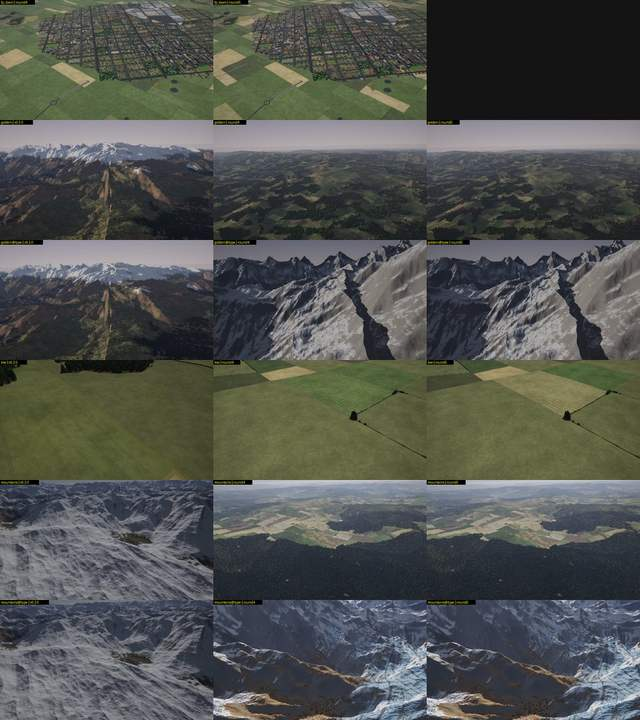
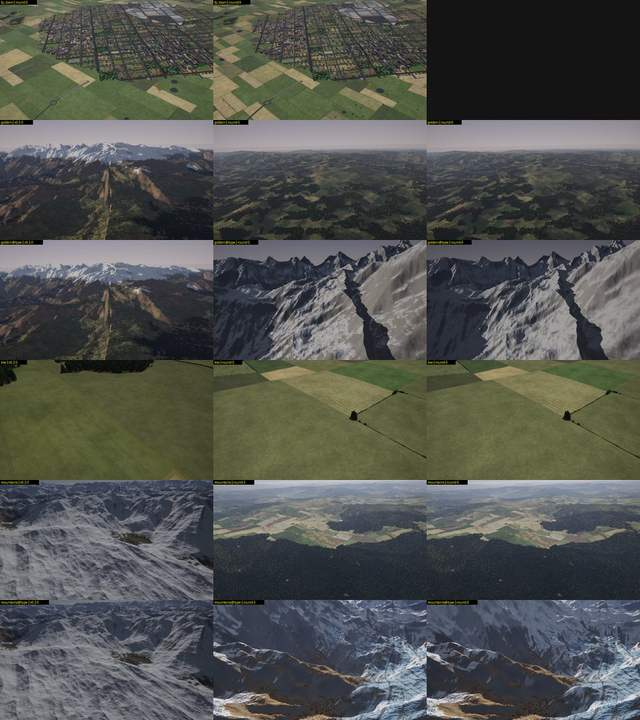
docs/next, CHANGELOG: round-6 look changes and A/B sheets (v0.2.0 | round 5 | round 6), like-for-like town/tropics/boreal/alpine @type places, stats

diff --git a/docs/next/ab/next_quality/stats.md b/docs/next/ab/next_quality/stats.md
@@ -1,126 +1,126 @@
 | scene | run | saturation | hf energy | flat blocks | edge contrast |
 |---|---|---|---|---|---|
 | alpine_south | v0.2.0 | 0.195 | 6.80 | 0.530 | 36.1 |
-| alpine_south | round4 | 0.206 | 18.88 | 0.001 | 13.6 |
-| alpine_south | round5 | 0.208 | 18.74 | 0.001 | 13.6 |
+| alpine_south | round 5 | 0.208 | 18.74 | 0.001 | 13.6 |
+| alpine_south | round 6 | 0.208 | 17.75 | 0.001 | 12.9 |
 | alpine_south@type | v0.2.0 | 0.195 | 6.80 | 0.530 | 36.1 |
-| alpine_south@type | round4 | 0.111 | 11.61 | 0.029 | 9.2 |
-| alpine_south@type | round5 | 0.111 | 11.61 | 0.029 | 9.2 |
+| alpine_south@type | round 5 | 0.055 | 14.06 | 0.018 | 8.1 |
+| alpine_south@type | round 6 | 0.053 | 11.89 | 0.007 | 8.8 |
 | alpine_valley | v0.2.0 | 0.020 | 3.23 | 0.175 | 7.9 |
-| alpine_valley | round4 | 0.284 | 15.96 | 0.003 | 19.4 |
-| alpine_valley | round5 | 0.281 | 15.13 | 0.005 | 19.2 |
+| alpine_valley | round 5 | 0.281 | 15.13 | 0.005 | 19.2 |
+| alpine_valley | round 6 | 0.281 | 15.13 | 0.004 | 19.2 |
 | alpine_valley@type | v0.2.0 | 0.020 | 3.23 | 0.175 | 7.9 |
-| alpine_valley@type | round4 | 0.169 | 29.52 | 0.003 | 6.4 |
-| alpine_valley@type | round5 | 0.169 | 29.52 | 0.003 | 6.4 |
+| alpine_valley@type | round 5 | 0.040 | 9.96 | 0.005 | 6.1 |
+| alpine_valley@type | round 6 | 0.042 | 7.48 | 0.003 | 5.1 |
 | bank | v0.2.0 | 0.244 | 9.45 | 0.337 | 25.9 |
-| bank | round4 | 0.328 | 2.81 | 0.830 | 2.9 |
-| bank | round5 | 0.328 | 2.81 | 0.830 | 2.9 |
+| bank | round 5 | 0.328 | 2.81 | 0.830 | 2.9 |
+| bank | round 6 | 0.328 | 2.81 | 0.830 | 2.9 |
 | bank@type | v0.2.0 | 0.244 | 9.45 | 0.337 | 25.9 |
-| bank@type | round4 | 0.299 | 5.75 | 0.574 | 19.8 |
-| bank@type | round5 | 0.300 | 5.98 | 0.573 | 19.8 |
+| bank@type | round 5 | 0.300 | 5.98 | 0.573 | 19.8 |
+| bank@type | round 6 | 0.299 | 6.17 | 0.571 | 19.5 |
 | boreal | v0.2.0 | 0.129 | 17.89 | 0.000 | 5.0 |
-| boreal | round4 | 0.224 | 30.07 | 0.005 | 7.3 |
-| boreal | round5 | 0.224 | 30.08 | 0.005 | 7.3 |
+| boreal | round 5 | 0.224 | 30.08 | 0.005 | 7.3 |
+| boreal | round 6 | 0.224 | 30.06 | 0.005 | 7.3 |
 | boreal@type | v0.2.0 | 0.129 | 17.89 | 0.000 | 5.0 |
-| boreal@type | round4 | 0.231 | 23.51 | 0.000 | 8.5 |
-| boreal@type | round5 | 0.231 | 23.51 | 0.000 | 8.5 |
+| boreal@type | round 5 | 0.186 | 19.83 | 0.006 | 19.7 |
+| boreal@type | round 6 | 0.186 | 19.83 | 0.006 | 19.7 |
 | braided | v0.2.0 | 0.212 | 32.29 | 0.122 | 6.7 |
-| braided | round4 | 0.129 | 11.40 | 0.030 | 6.9 |
-| braided | round5 | 0.128 | 11.37 | 0.048 | 6.9 |
+| braided | round 5 | 0.128 | 11.37 | 0.048 | 6.9 |
+| braided | round 6 | 0.129 | 9.98 | 0.048 | 5.9 |
 | canyon | v0.2.0 | 0.479 | 6.53 | 0.001 | 4.4 |
-| canyon | round4 | 0.289 | 50.35 | 0.001 | 5.4 |
-| canyon | round5 | 0.289 | 50.35 | 0.001 | 5.4 |
+| canyon | round 5 | 0.289 | 50.35 | 0.001 | 5.4 |
+| canyon | round 6 | 0.289 | 50.35 | 0.001 | 5.4 |
 | canyon@type | v0.2.0 | 0.479 | 6.53 | 0.001 | 4.4 |
-| canyon@type | round4 | 0.340 | 6.90 | 0.211 | 18.1 |
-| canyon@type | round5 | 0.351 | 5.80 | 0.260 | 18.1 |
+| canyon@type | round 5 | 0.351 | 5.80 | 0.260 | 18.1 |
+| canyon@type | round 6 | 0.351 | 5.80 | 0.260 | 18.1 |
 | coast | v0.2.0 | 0.298 | 8.90 | 0.270 | 24.5 |
-| coast | round4 | 0.433 | 2.88 | 0.932 | 2.8 |
-| coast | round5 | 0.433 | 2.88 | 0.932 | 2.8 |
+| coast | round 5 | 0.433 | 2.88 | 0.932 | 2.8 |
+| coast | round 6 | 0.433 | 2.88 | 0.932 | 2.8 |
 | coast@type | v0.2.0 | 0.298 | 8.90 | 0.270 | 24.5 |
-| coast@type | round4 | 0.315 | 10.39 | 0.466 | 38.3 |
-| coast@type | round5 | 0.313 | 10.43 | 0.468 | 38.2 |
+| coast@type | round 5 | 0.313 | 10.43 | 0.468 | 38.2 |
+| coast@type | round 6 | 0.311 | 10.74 | 0.469 | 38.4 |
 | desert_coast | v0.2.0 | 0.404 | 3.10 | 0.370 | 16.3 |
-| desert_coast | round4 | 0.284 | 4.10 | 0.489 | 7.2 |
-| desert_coast | round5 | 0.284 | 4.10 | 0.489 | 7.2 |
+| desert_coast | round 5 | 0.284 | 4.10 | 0.489 | 7.2 |
+| desert_coast | round 6 | 0.284 | 4.10 | 0.489 | 7.2 |
 | desert_coast@type | v0.2.0 | 0.404 | 3.10 | 0.370 | 16.3 |
-| desert_coast@type | round4 | 0.263 | 9.52 | 0.020 | 7.7 |
-| desert_coast@type | round5 | 0.291 | 8.79 | 0.017 | 6.4 |
+| desert_coast@type | round 5 | 0.291 | 8.79 | 0.017 | 6.4 |
+| desert_coast@type | round 6 | 0.310 | 5.95 | 0.025 | 7.1 |
 | dunes | v0.2.0 | 0.340 | 8.41 | 0.039 | 6.5 |
-| dunes | round4 | 0.189 | 34.28 | 0.002 | 4.6 |
-| dunes | round5 | 0.189 | 34.28 | 0.002 | 4.6 |
+| dunes | round 5 | 0.189 | 34.28 | 0.002 | 4.6 |
+| dunes | round 6 | 0.189 | 34.28 | 0.002 | 4.6 |
 | dunes@type | v0.2.0 | 0.340 | 8.41 | 0.039 | 6.5 |
-| dunes@type | round4 | 0.389 | 7.37 | 0.000 | 4.2 |
-| dunes@type | round5 | 0.389 | 7.37 | 0.000 | 4.2 |
+| dunes@type | round 5 | 0.389 | 7.37 | 0.000 | 4.2 |
+| dunes@type | round 6 | 0.389 | 7.37 | 0.000 | 4.2 |
 | dusk | v0.2.0 | 0.169 | 5.19 | 0.044 | 5.1 |
-| dusk | round4 | 0.131 | 4.10 | 0.399 | 7.7 |
-| dusk | round5 | 0.131 | 4.10 | 0.399 | 7.7 |
+| dusk | round 5 | 0.131 | 4.10 | 0.399 | 7.7 |
+| dusk | round 6 | 0.131 | 4.10 | 0.399 | 7.7 |
 | dusk@type | v0.2.0 | 0.169 | 5.19 | 0.044 | 5.1 |
-| dusk@type | round4 | 0.190 | 5.60 | 0.129 | 8.9 |
-| dusk@type | round5 | 0.191 | 5.59 | 0.128 | 8.9 |
+| dusk@type | round 5 | 0.191 | 5.59 | 0.128 | 8.9 |
+| dusk@type | round 6 | 0.189 | 5.58 | 0.127 | 9.2 |
 | farmland | v0.2.0 | 0.340 | 10.42 | 0.030 | 20.8 |
-| farmland | round4 | 0.306 | 9.02 | 0.031 | 21.4 |
-| farmland | round5 | 0.304 | 9.01 | 0.031 | 21.3 |
+| farmland | round 5 | 0.304 | 9.01 | 0.031 | 21.3 |
+| farmland | round 6 | 0.304 | 9.01 | 0.031 | 21.3 |
 | farmland@type | v0.2.0 | 0.340 | 10.42 | 0.030 | 20.8 |
-| farmland@type | round4 | 0.333 | 7.72 | 0.036 | 23.6 |
-| farmland@type | round5 | 0.324 | 7.36 | 0.034 | 21.3 |
+| farmland@type | round 5 | 0.324 | 7.36 | 0.034 | 21.3 |
+| farmland@type | round 6 | 0.285 | 8.21 | 0.038 | 21.0 |
 | forest | v0.2.0 | 0.202 | 17.92 | 0.002 | 4.2 |
-| forest | round4 | 0.271 | 16.25 | 0.002 | 19.8 |
-| forest | round5 | 0.270 | 16.21 | 0.004 | 19.4 |
+| forest | round 5 | 0.270 | 16.21 | 0.004 | 19.4 |
+| forest | round 6 | 0.270 | 16.21 | 0.004 | 19.4 |
 | forest@type | v0.2.0 | 0.202 | 17.92 | 0.002 | 4.2 |
-| forest@type | round4 | 0.202 | 23.96 | 0.009 | 8.8 |
-| forest@type | round5 | 0.202 | 20.73 | 0.010 | 10.2 |
-| fp_forest | round4 | 0.160 | 28.83 | 0.040 | 6.9 |
-| fp_forest | round5 | 0.160 | 28.83 | 0.040 | 6.9 |
-| fp_town | round4 | 0.288 | 13.84 | 0.023 | 17.6 |
-| fp_town | round5 | 0.281 | 14.10 | 0.018 | 16.2 |
+| forest@type | round 5 | 0.202 | 20.73 | 0.010 | 10.2 |
+| forest@type | round 6 | 0.202 | 20.68 | 0.010 | 10.2 |
+| fp_forest | round 5 | 0.160 | 28.83 | 0.040 | 6.9 |
+| fp_forest | round 6 | 0.160 | 28.83 | 0.040 | 6.9 |
+| fp_town | round 5 | 0.281 | 14.10 | 0.018 | 16.2 |
+| fp_town | round 6 | 0.285 | 14.99 | 0.009 | 13.8 |
 | golden | v0.2.0 | 0.166 | 11.29 | 0.112 | 12.4 |
-| golden | round4 | 0.166 | 16.61 | 0.019 | 9.6 |
-| golden | round5 | 0.158 | 17.10 | 0.016 | 9.4 |
+| golden | round 5 | 0.158 | 17.10 | 0.016 | 9.4 |
+| golden | round 6 | 0.158 | 17.10 | 0.016 | 9.4 |
 | golden@type | v0.2.0 | 0.166 | 11.29 | 0.112 | 12.4 |
-| golden@type | round4 | 0.141 | 13.29 | 0.064 | 16.4 |
-| golden@type | round5 | 0.141 | 13.29 | 0.064 | 16.4 |
+| golden@type | round 5 | 0.141 | 13.29 | 0.064 | 16.4 |
+| golden@type | round 6 | 0.134 | 12.10 | 0.087 | 20.7 |
 | low | v0.2.0 | 0.414 | 5.37 | 0.111 | 3.9 |
-| low | round4 | 0.361 | 4.41 | 0.007 | 5.7 |
-| low | round5 | 0.360 | 4.42 | 0.007 | 6.0 |
+| low | round 5 | 0.360 | 4.42 | 0.007 | 6.0 |
+| low | round 6 | 0.360 | 4.42 | 0.007 | 6.0 |
 | mountains | v0.2.0 | 0.098 | 14.87 | 0.035 | 4.7 |
-| mountains | round4 | 0.246 | 20.25 | 0.000 | 13.7 |
-| mountains | round5 | 0.245 | 20.24 | 0.000 | 13.8 |
+| mountains | round 5 | 0.245 | 20.24 | 0.000 | 13.8 |
+| mountains | round 6 | 0.245 | 20.24 | 0.000 | 13.8 |
 | mountains@type | v0.2.0 | 0.098 | 14.87 | 0.035 | 4.7 |
-| mountains@type | round4 | 0.212 | 21.77 | 0.200 | 20.1 |
-| mountains@type | round5 | 0.212 | 21.77 | 0.200 | 20.1 |
+| mountains@type | round 5 | 0.212 | 21.77 | 0.200 | 20.1 |
+| mountains@type | round 6 | 0.213 | 21.76 | 0.178 | 19.1 |
 | night | v0.2.0 | 0.450 | 27.41 | 0.013 | 7.0 |
-| night | round4 | 0.802 | 22.27 | 0.000 | 2.9 |
-| night | round5 | 0.802 | 22.28 | 0.000 | 2.9 |
+| night | round 5 | 0.802 | 22.28 | 0.000 | 2.9 |
+| night | round 6 | 0.802 | 22.28 | 0.000 | 2.9 |
 | night@type | v0.2.0 | 0.450 | 27.41 | 0.013 | 7.0 |
-| night@type | round4 | 0.520 | 23.58 | 0.000 | 6.8 |
-| night@type | round5 | 0.522 | 23.64 | 0.000 | 6.8 |
+| night@type | round 5 | 0.522 | 23.64 | 0.000 | 6.8 |
+| night@type | round 6 | 0.521 | 23.51 | 0.000 | 6.8 |
 | river | v0.2.0 | 0.279 | 18.77 | 0.088 | 11.9 |
-| river | round4 | 0.288 | 10.19 | 0.113 | 14.7 |
-| river | round5 | 0.273 | 10.26 | 0.110 | 15.2 |
+| river | round 5 | 0.273 | 10.26 | 0.110 | 15.2 |
+| river | round 6 | 0.277 | 11.85 | 0.110 | 17.7 |
 | taiga_river | v0.2.0 | 0.165 | 21.84 | 0.041 | 5.1 |
-| taiga_river | round4 | 0.174 | 31.05 | 0.030 | 6.5 |
-| taiga_river | round5 | 0.174 | 31.05 | 0.030 | 6.5 |
+| taiga_river | round 5 | 0.174 | 31.05 | 0.030 | 6.5 |
+| taiga_river | round 6 | 0.174 | 31.05 | 0.030 | 6.5 |
 | taiga_river@type | v0.2.0 | 0.165 | 21.84 | 0.041 | 5.1 |
-| taiga_river@type | round4 | 0.181 | 33.74 | 0.000 | 7.9 |
-| taiga_river@type | round5 | 0.181 | 33.74 | 0.000 | 7.9 |
+| taiga_river@type | round 5 | 0.181 | 33.74 | 0.000 | 7.9 |
+| taiga_river@type | round 6 | 0.181 | 33.74 | 0.000 | 7.9 |
 | terminal_lake | v0.2.0 | 0.287 | 4.57 | 0.498 | 37.8 |
-| terminal_lake | round4 | 0.261 | 4.02 | 0.550 | 14.5 |
-| terminal_lake | round5 | 0.263 | 4.11 | 0.554 | 15.1 |
+| terminal_lake | round 5 | 0.263 | 4.11 | 0.554 | 15.1 |
+| terminal_lake | round 6 | 0.261 | 4.46 | 0.546 | 16.8 |
 | town | v0.2.0 | 0.193 | 22.91 | 0.038 | 8.7 |
-| town | round4 | 0.313 | 9.59 | 0.003 | 19.4 |
-| town | round5 | 0.310 | 9.73 | 0.004 | 20.1 |
+| town | round 5 | 0.310 | 9.73 | 0.004 | 20.1 |
+| town | round 6 | 0.310 | 9.73 | 0.004 | 20.1 |
 | town@type | v0.2.0 | 0.193 | 22.91 | 0.038 | 8.7 |
-| town@type | round4 | 0.221 | 51.53 | 0.000 | 6.2 |
-| town@type | round5 | 0.218 | 49.28 | 0.001 | 6.8 |
+| town@type | round 5 | 0.194 | 34.98 | 0.081 | 27.8 |
+| town@type | round 6 | 0.205 | 24.13 | 0.110 | 39.0 |
 | tropics | v0.2.0 | 0.253 | 22.99 | 0.190 | 10.2 |
-| tropics | round4 | 0.179 | 6.38 | 0.652 | 24.1 |
-| tropics | round5 | 0.179 | 6.38 | 0.652 | 24.1 |
+| tropics | round 5 | 0.179 | 6.38 | 0.652 | 24.1 |
+| tropics | round 6 | 0.224 | 27.26 | 0.011 | 8.2 |
 | tropics@type | v0.2.0 | 0.253 | 22.99 | 0.190 | 10.2 |
-| tropics@type | round4 | 0.246 | 25.93 | 0.000 | 7.2 |
-| tropics@type | round5 | 0.246 | 25.93 | 0.000 | 7.2 |
+| tropics@type | round 5 | 0.246 | 11.62 | 0.478 | 36.6 |
+| tropics@type | round 6 | 0.263 | 20.67 | 0.237 | 27.5 |
 | volcano | v0.2.0 | 0.205 | 23.29 | 0.002 | 5.9 |
-| volcano | round4 | 0.197 | 37.57 | 0.001 | 6.1 |
-| volcano | round5 | 0.197 | 37.57 | 0.001 | 6.1 |
+| volcano | round 5 | 0.197 | 37.57 | 0.001 | 6.1 |
+| volcano | round 6 | 0.197 | 37.57 | 0.001 | 6.1 |
 | volcano@type | v0.2.0 | 0.205 | 23.29 | 0.002 | 5.9 |
-| volcano@type | round4 | 0.232 | 30.41 | 0.006 | 6.0 |
-| volcano@type | round5 | 0.232 | 30.39 | 0.006 | 6.0 |
+| volcano@type | round 5 | 0.232 | 30.39 | 0.006 | 6.0 |
+| volcano@type | round 6 | 0.232 | 30.39 | 0.006 | 6.0 |

diff --git a/docs/next/README.md b/docs/next/README.md
@@ -52,17 +52,19 @@ landscapes but looks worse in places, which is why it is not the default:
 
 - **Fields:** irregular field systems are four-sided cadastral parcels of about v0.2.0's size
   and texture; survey sections are rarer in wet climates and cut into forties (round 4), and
-  streams in farmland carry tree lines; pasture regions farm a third of their parcels and mow
-  their hay meadows (round 5), but wet regions' patchwork is still greener and less varied in
-  colour than v0.2.0's; smallholder mosaics speckle at 10 km.
-- **Towns** draw one street grid each with mostly built lots and houses of v0.2.0's size
-  (round 5), but their blocks are fuller and their houses lower than v0.2.0's boxes, and towns
+  streams in farmland carry tree lines; pasture regions are mixed farms with hedges, and wet
+  climates have smaller parcels (round 6), but wet patchworks are still greener and have fewer
+  trees than v0.2.0's; smallholder mosaics speckle at 10 km.
+- **Towns** draw one street grid each; town centres are detached boxes of 3–7 floors on lawns
+  like v0.2.0's (round 6), but industrial estates can sit in a small town's centre and towns
   can grow together into large built areas; **lakes** can look broken where rivers, basins and
   kits meet.
 - **Deltas** are lobate with wandering distributaries, their silt in the land's hue (round 5);
   **canyons** have stepped walls that wander into side canyons and spurs (round 5), but their
-  benches are regular and their floors flat; deserts are blotchier and barchan plains differ
-  from v0.2.0's look; temperate forests have v0.2.0's crowns but render darker.
+  benches are regular and their floors flat; desert floors and arid deltas are even (round 6),
+  but barchan plains differ from v0.2.0's look; temperate forests have v0.2.0's crowns but
+  render darker; high ranges are steeper than v0.2.0's, their walls grey under a dusting of
+  snow.
 - **Speed:** tiles cost about 2–3× classic's on a GPU (Tesla P4, 64 cold tiles at z12 / z14 /
   z16: 11.2 / 6.5 / 5.6 s against 3.8 / 3.4 / 2.9 s), mostly the kits' pass B and the host-built
   routes of a new area.
@@ -157,7 +159,7 @@ fields at 53° N, and a hard, circular biome border in the oblique view (one of 
 `scripts/ab_v020/<scene>.yaml` are the same scenes with `generator: next`, and
 `<scene>@type.yaml` the same camera at a place of the same landscape type in next's world.
 [`ab/next_quality/`](ab/next_quality/) has the sheets of the latest comparison (columns:
-v0.2.0, round 4, round 5) and their image statistics (`stats.md`). Scenes whose pose shows
+v0.2.0, round 5, round 6) and their image statistics (`stats.md`). Scenes whose pose shows
 another landscape in next's world (sea at `bank` and `coast`, farmland at `night` and `dusk`)
 have an `@type` twin at a place of v0.2.0's landscape; `probe_px towns LAT LON R_KM` lists the
 settlements near a point to find one.

diff --git a/CHANGELOG.md b/CHANGELOG.md
@@ -38,6 +38,10 @@
   with side canyons, spurs and thick strata; houses of v0.2.0's size; delta silt in the land's
   hue; mixed farms and mown hay in pasture regions; softer desert varnish; A/B places of the
   same landscape for every v0.2.0 scene.
+- `next` polish round 6: even desert floors (soft varnish and mottling) and calm arid deltas;
+  town centres of detached boxes on lawns, fewer street trees; smaller, more varied parcels
+  in wet climates, hedged mixed farms; no fishbone clearings over farmland; greenhouse seas
+  only in warm climates; snow on steep high-mountain slopes.
 - **Optional tile layers** (tile store format 2; `next` only): `tiles.layers: [dtm, instance]`
   adds the bare ground and instance ids (building lots, fields, forest stands) to a new store;
   the viewer's map shadings *Height above ground* and *Instances* show them. Format-1 stores
